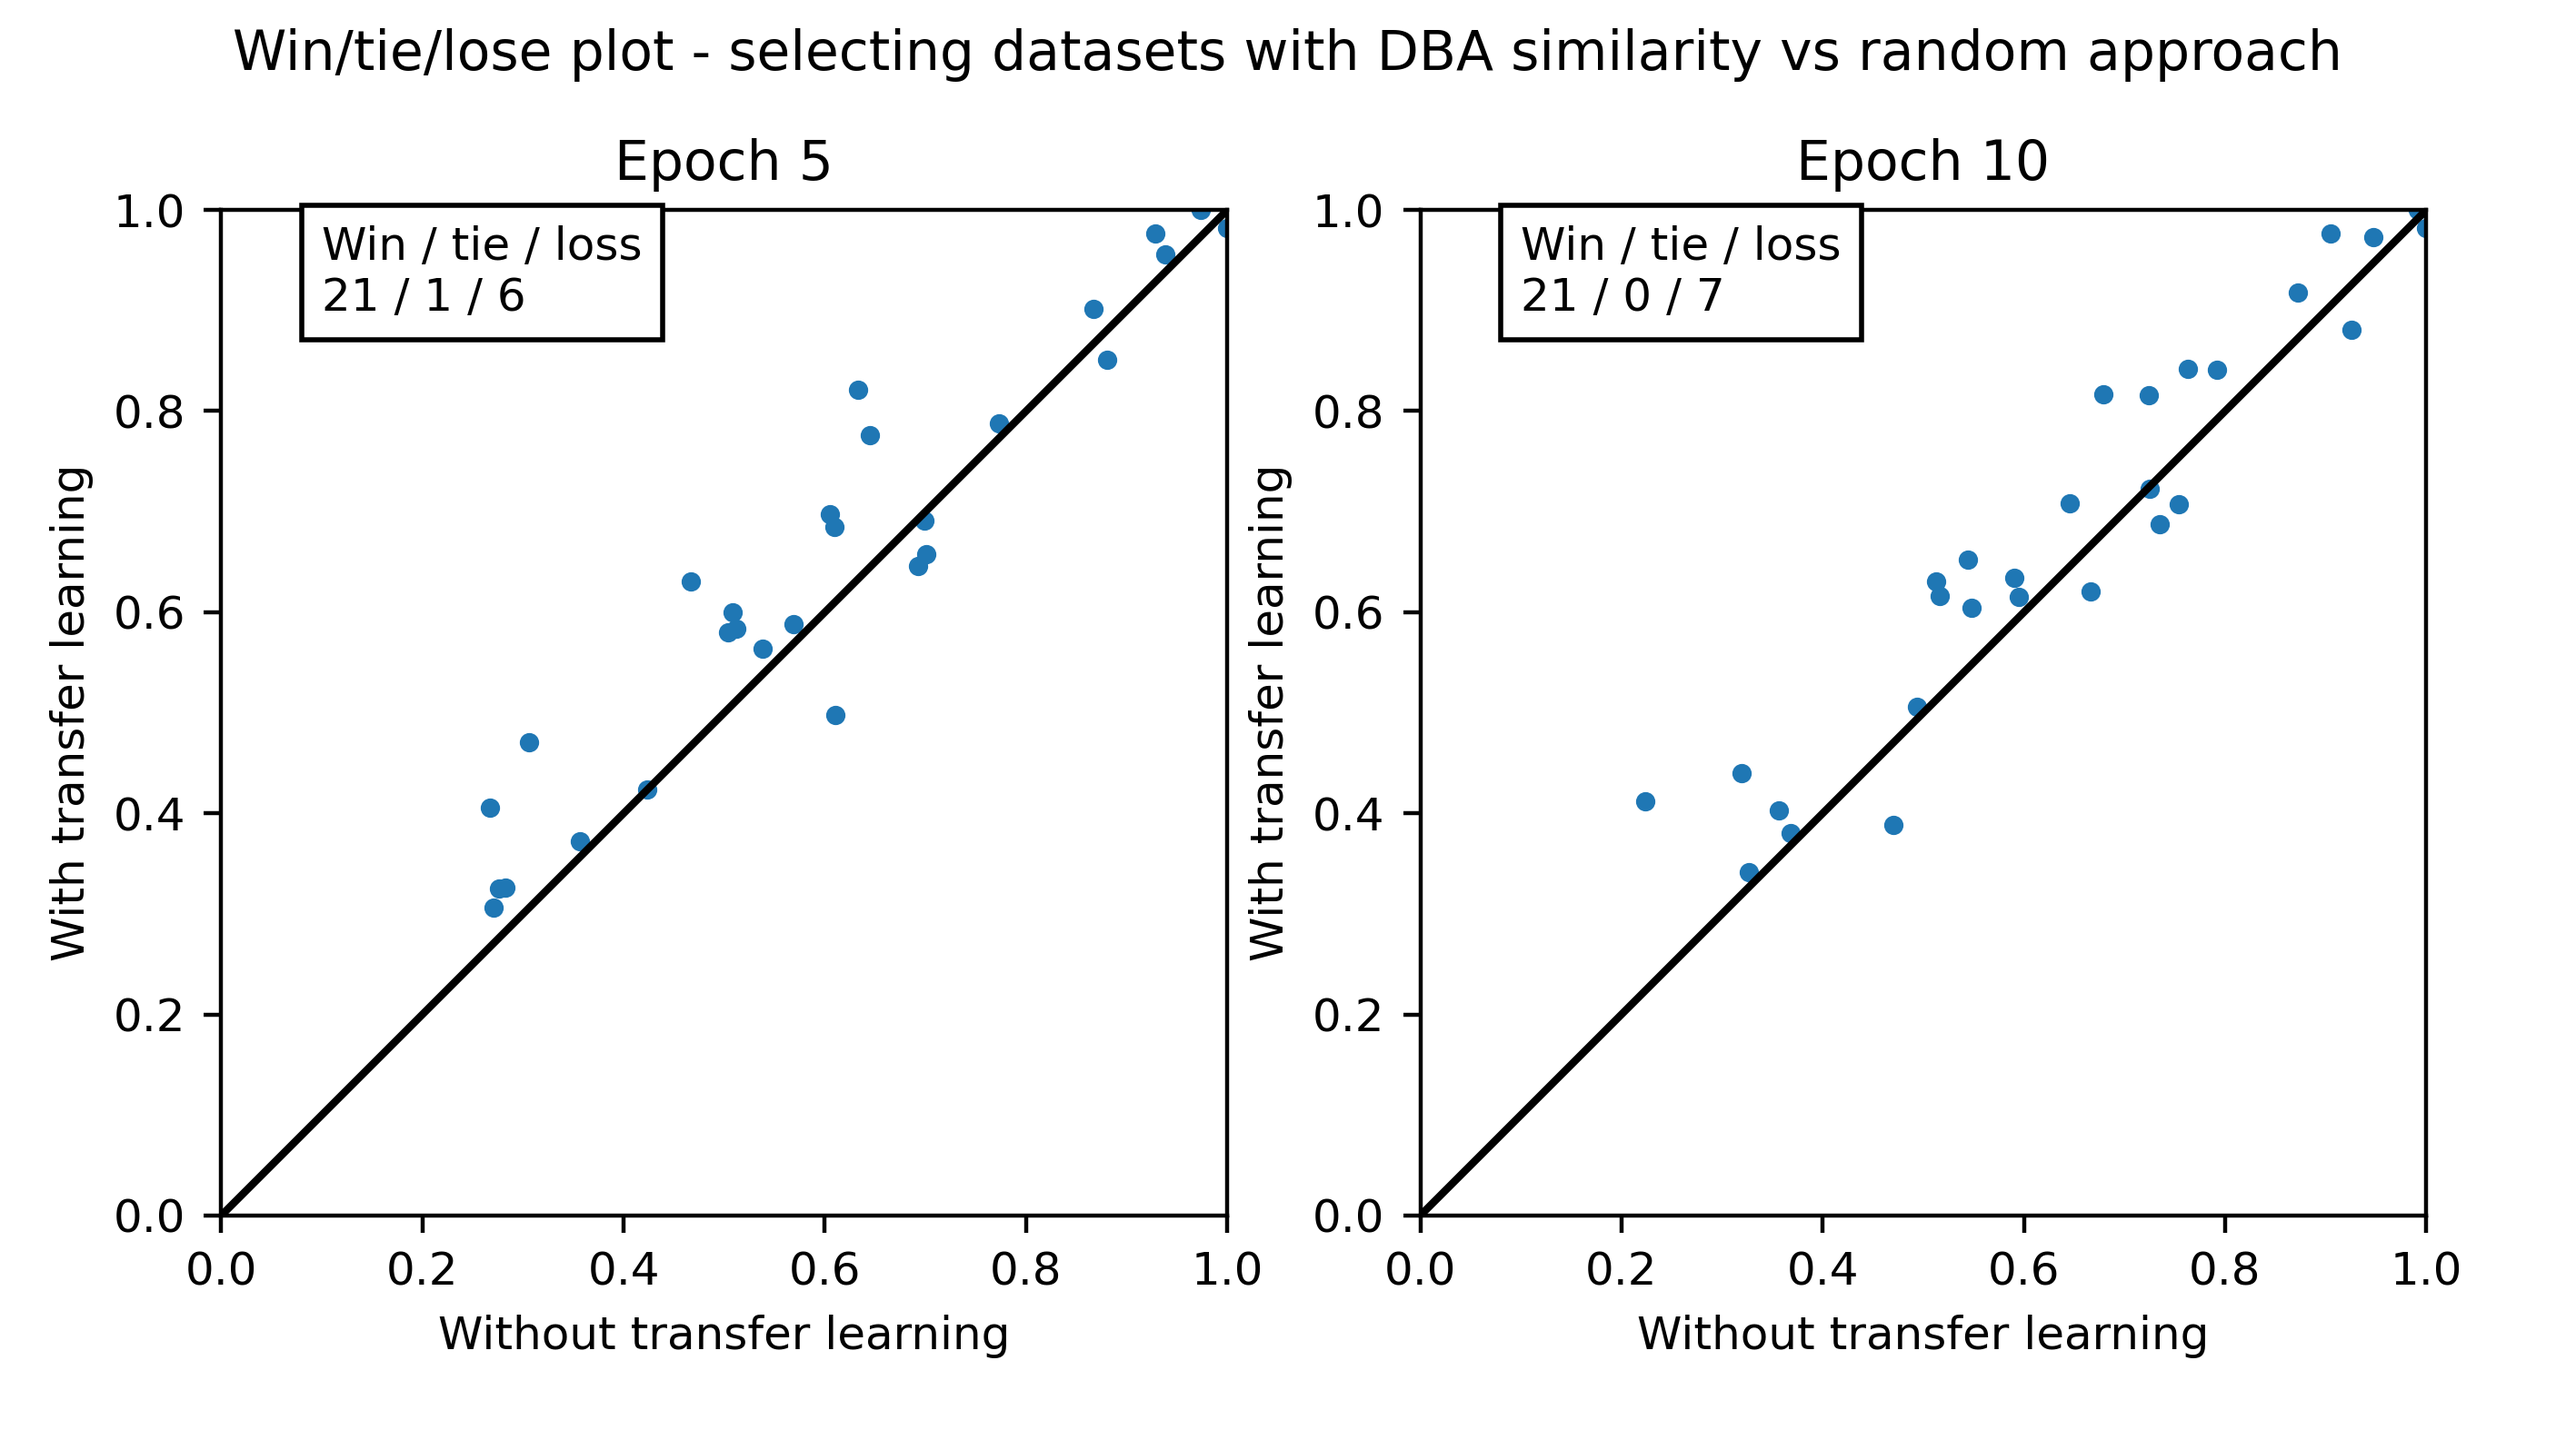
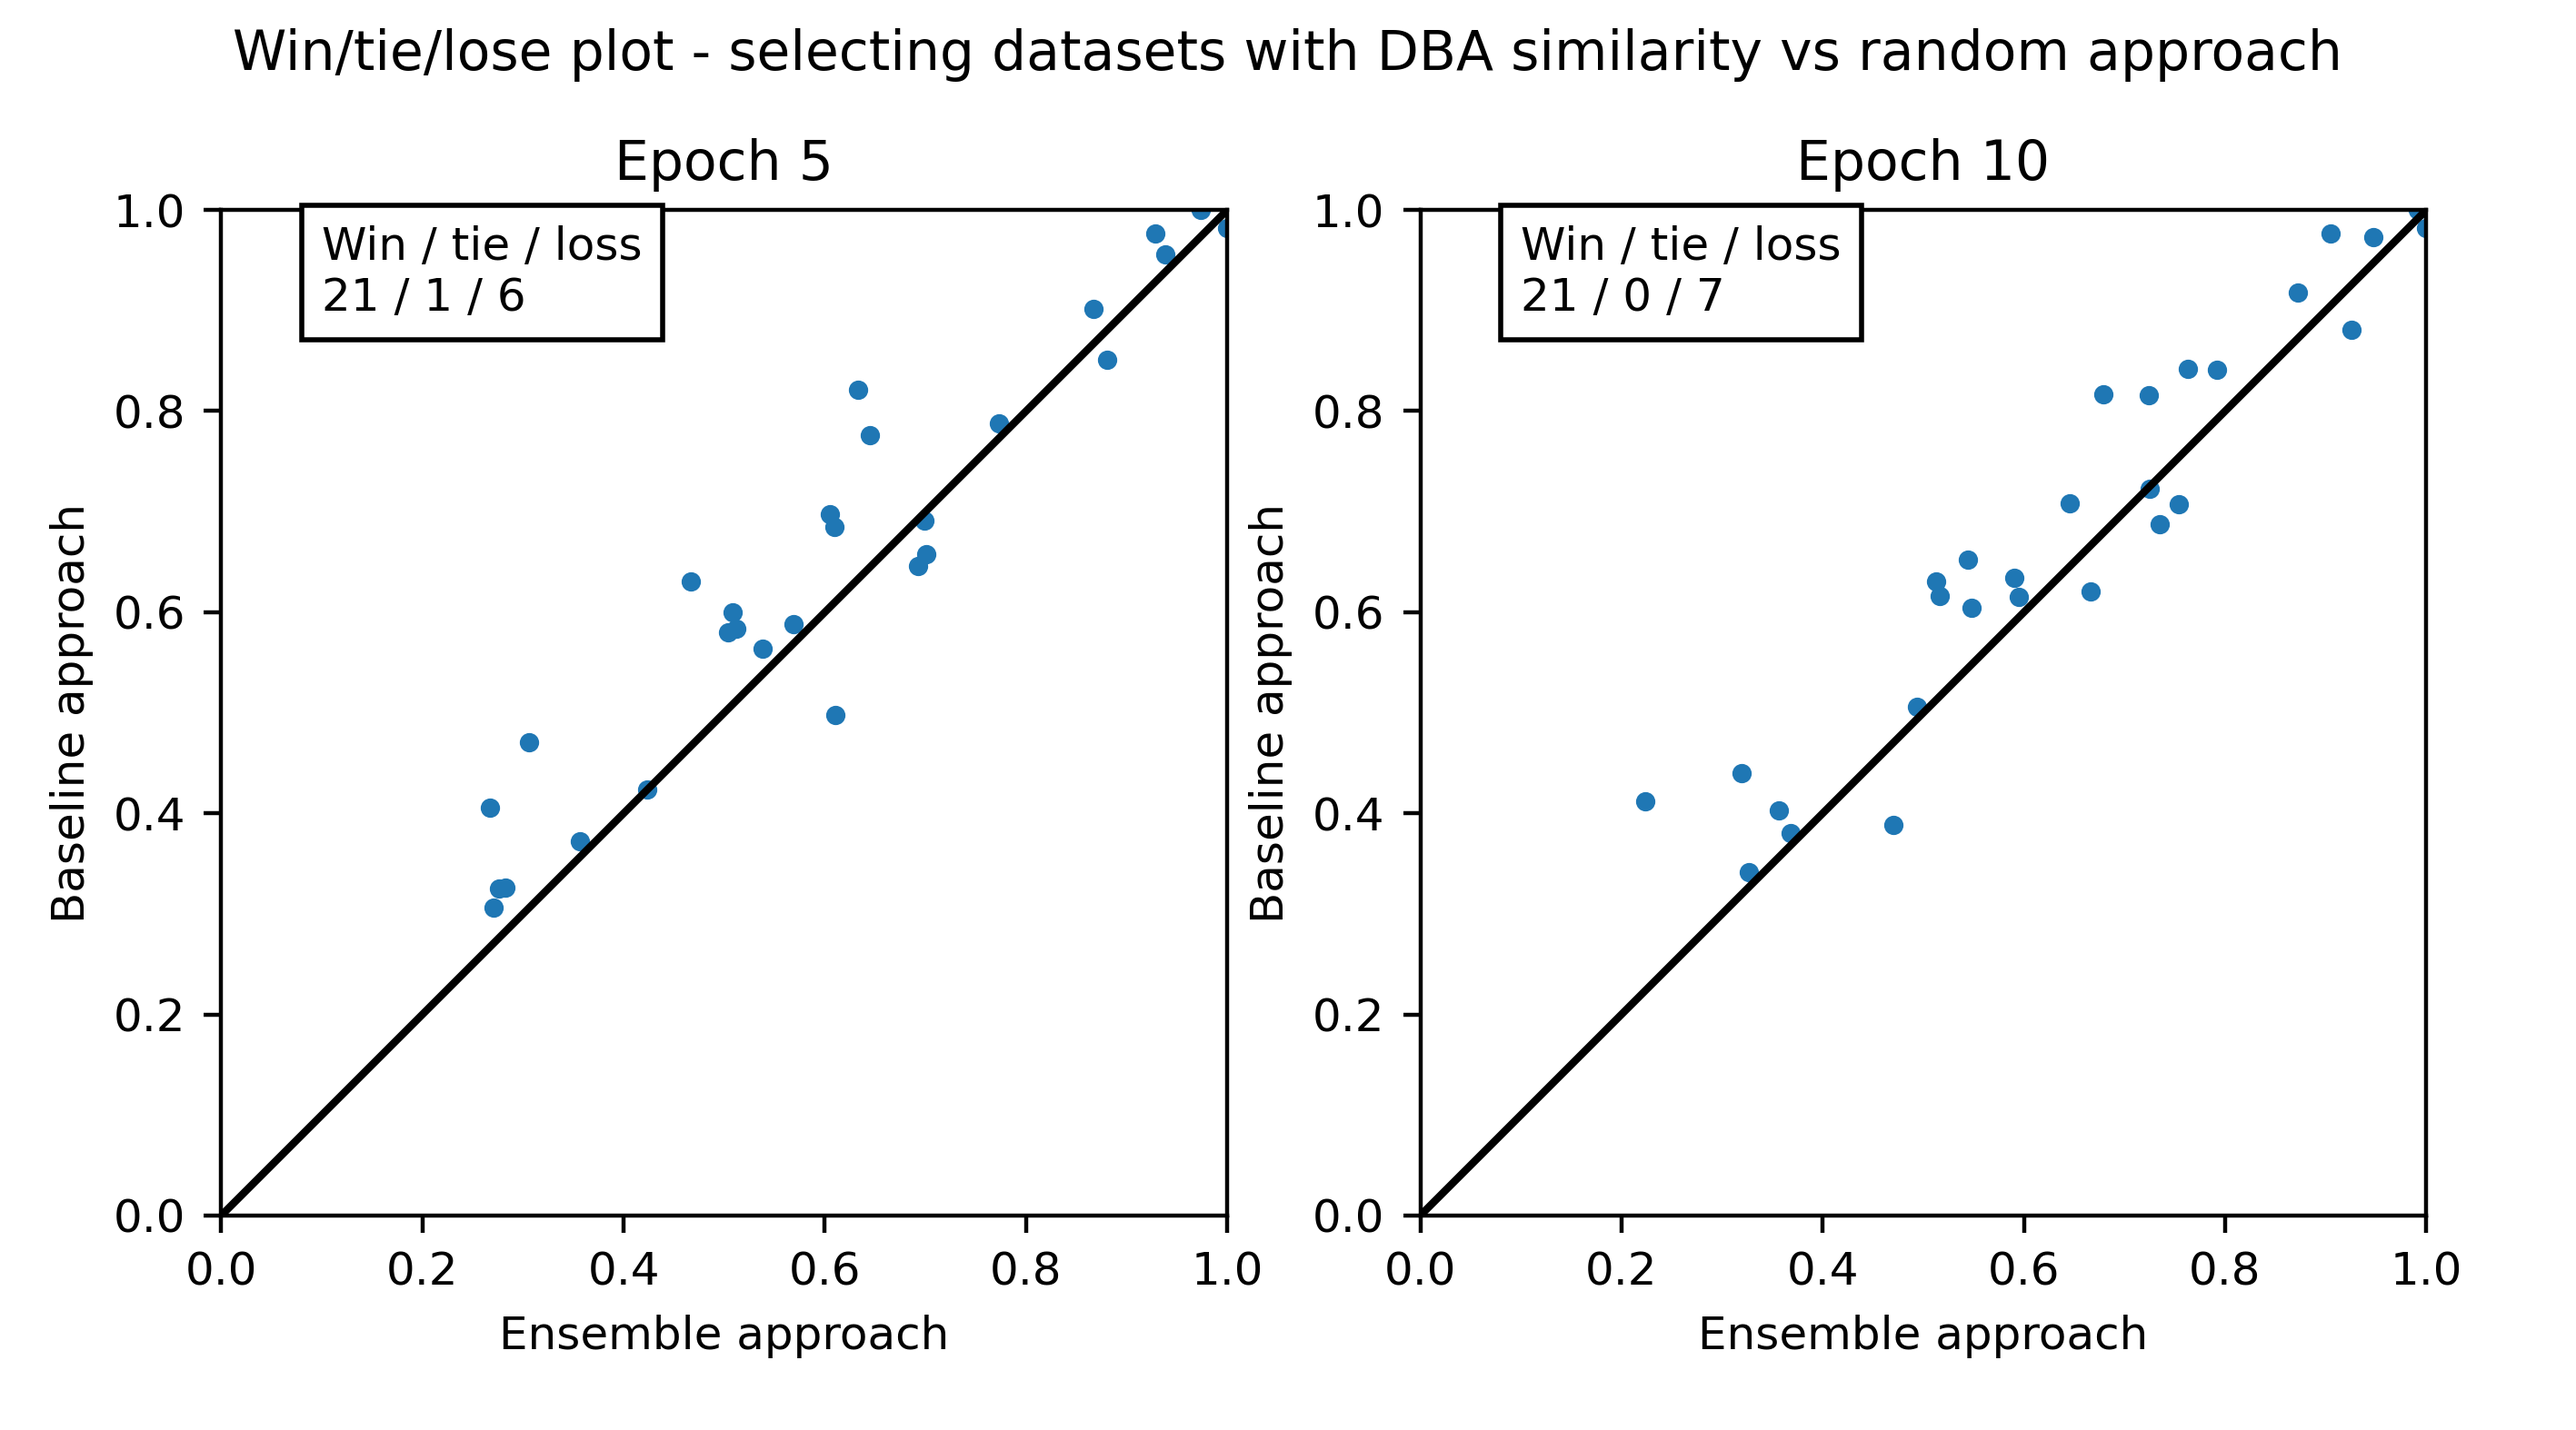
parametrized y and x labels

diff --git a/src/results/utils.py b/src/results/utils.py
@@ -19,6 +19,9 @@ cm = 1 / 2.54
 
 
 class Results(metaclass=ABCMeta):
+    x_label_win_tie_loss = "Without transfer learning"
+    y_label_win_tie_loss = "With transfer learning"
+
     @property
     @abstractmethod
     def results_root_path(self):
@@ -252,8 +255,8 @@ class Results(metaclass=ABCMeta):
         ax.scatter(*list(zip(*epoch_acc_pairs)), s=8)
         ax.plot([-10, 10], [-10, 10], color="black")
         ax.set_title(f"Epoch {epoch}")
-        ax.set_ylabel("With transfer learning")
-        ax.set_xlabel("Without transfer learning")
+        ax.set_ylabel(self.y_label_win_tie_loss)
+        ax.set_xlabel(self.x_label_win_tie_loss)
         ax.set_xlim([0, 1])
         ax.set_ylim([0, 1])
         ax.set_aspect("equal")

diff --git a/src/results/dba_vs_random/get_metrics_per_epoch.py b/src/results/dba_vs_random/get_metrics_per_epoch.py
@@ -16,6 +16,8 @@ class DbaSimiliarityVsRandomResults(Results):
     second_result_key_name_val_loss = "random_ensemble_val_loss"
     second_result_key_name_acc = "random_ensemble_accuracy"
     second_result_key_name_val_acc = "random_ensemble_val_accuracy"
+    x_label_win_tie_loss = "Ensemble approach"
+    y_label_win_tie_loss = "Baseline approach"
 
     def _get_second_experiment_runs(self) -> Dict[str, Run]:
         hist = self._get_history_per_experiment(
